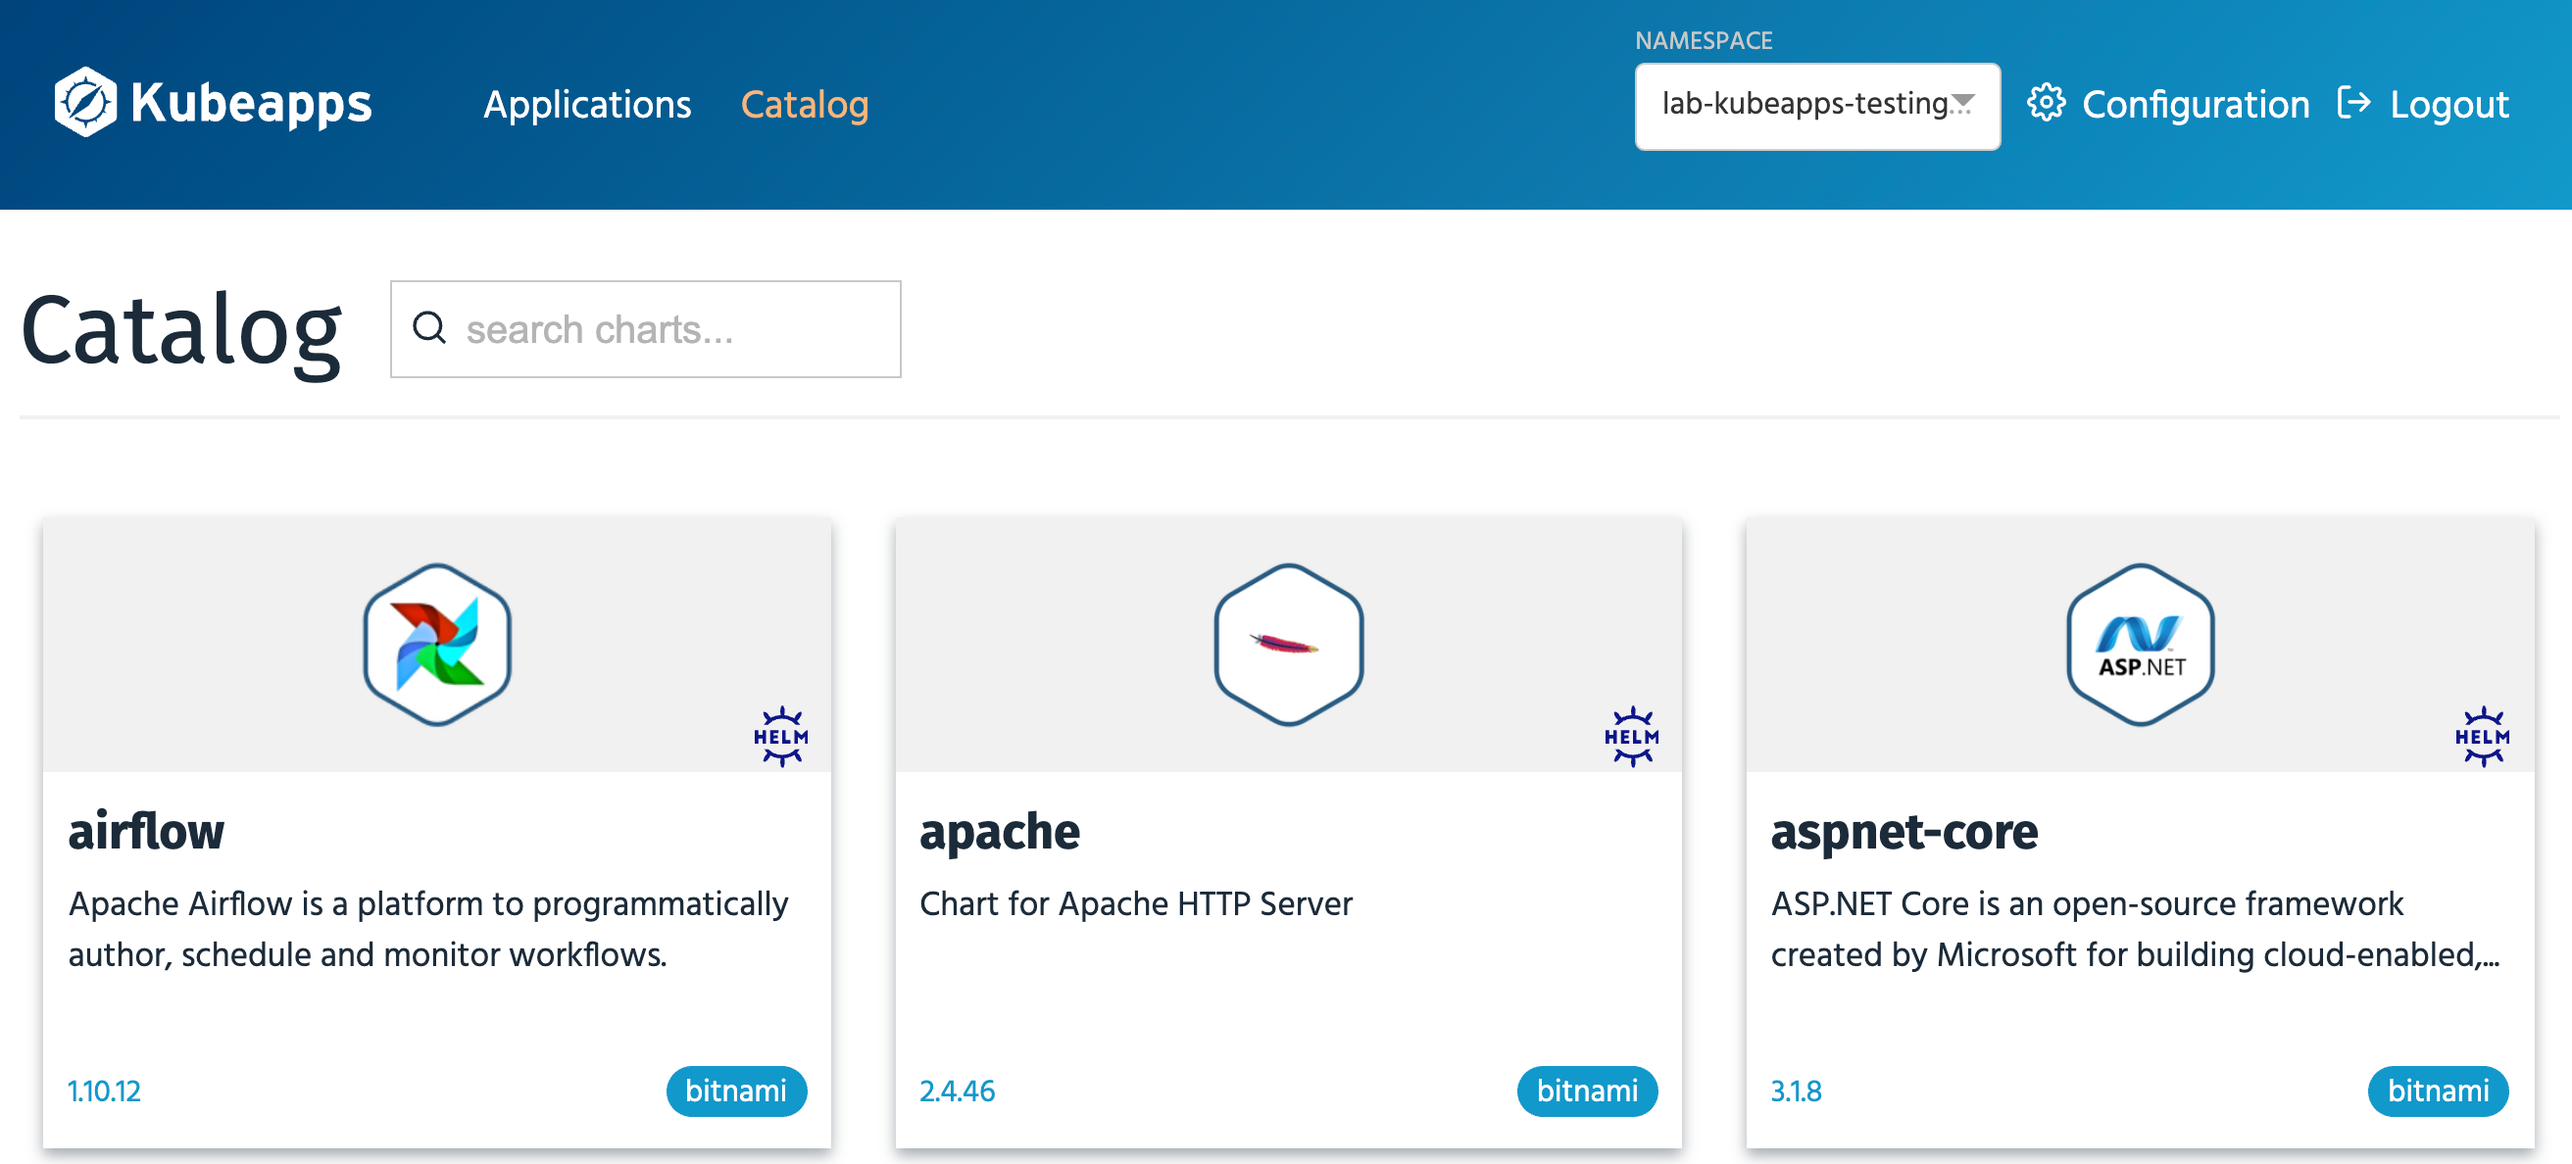
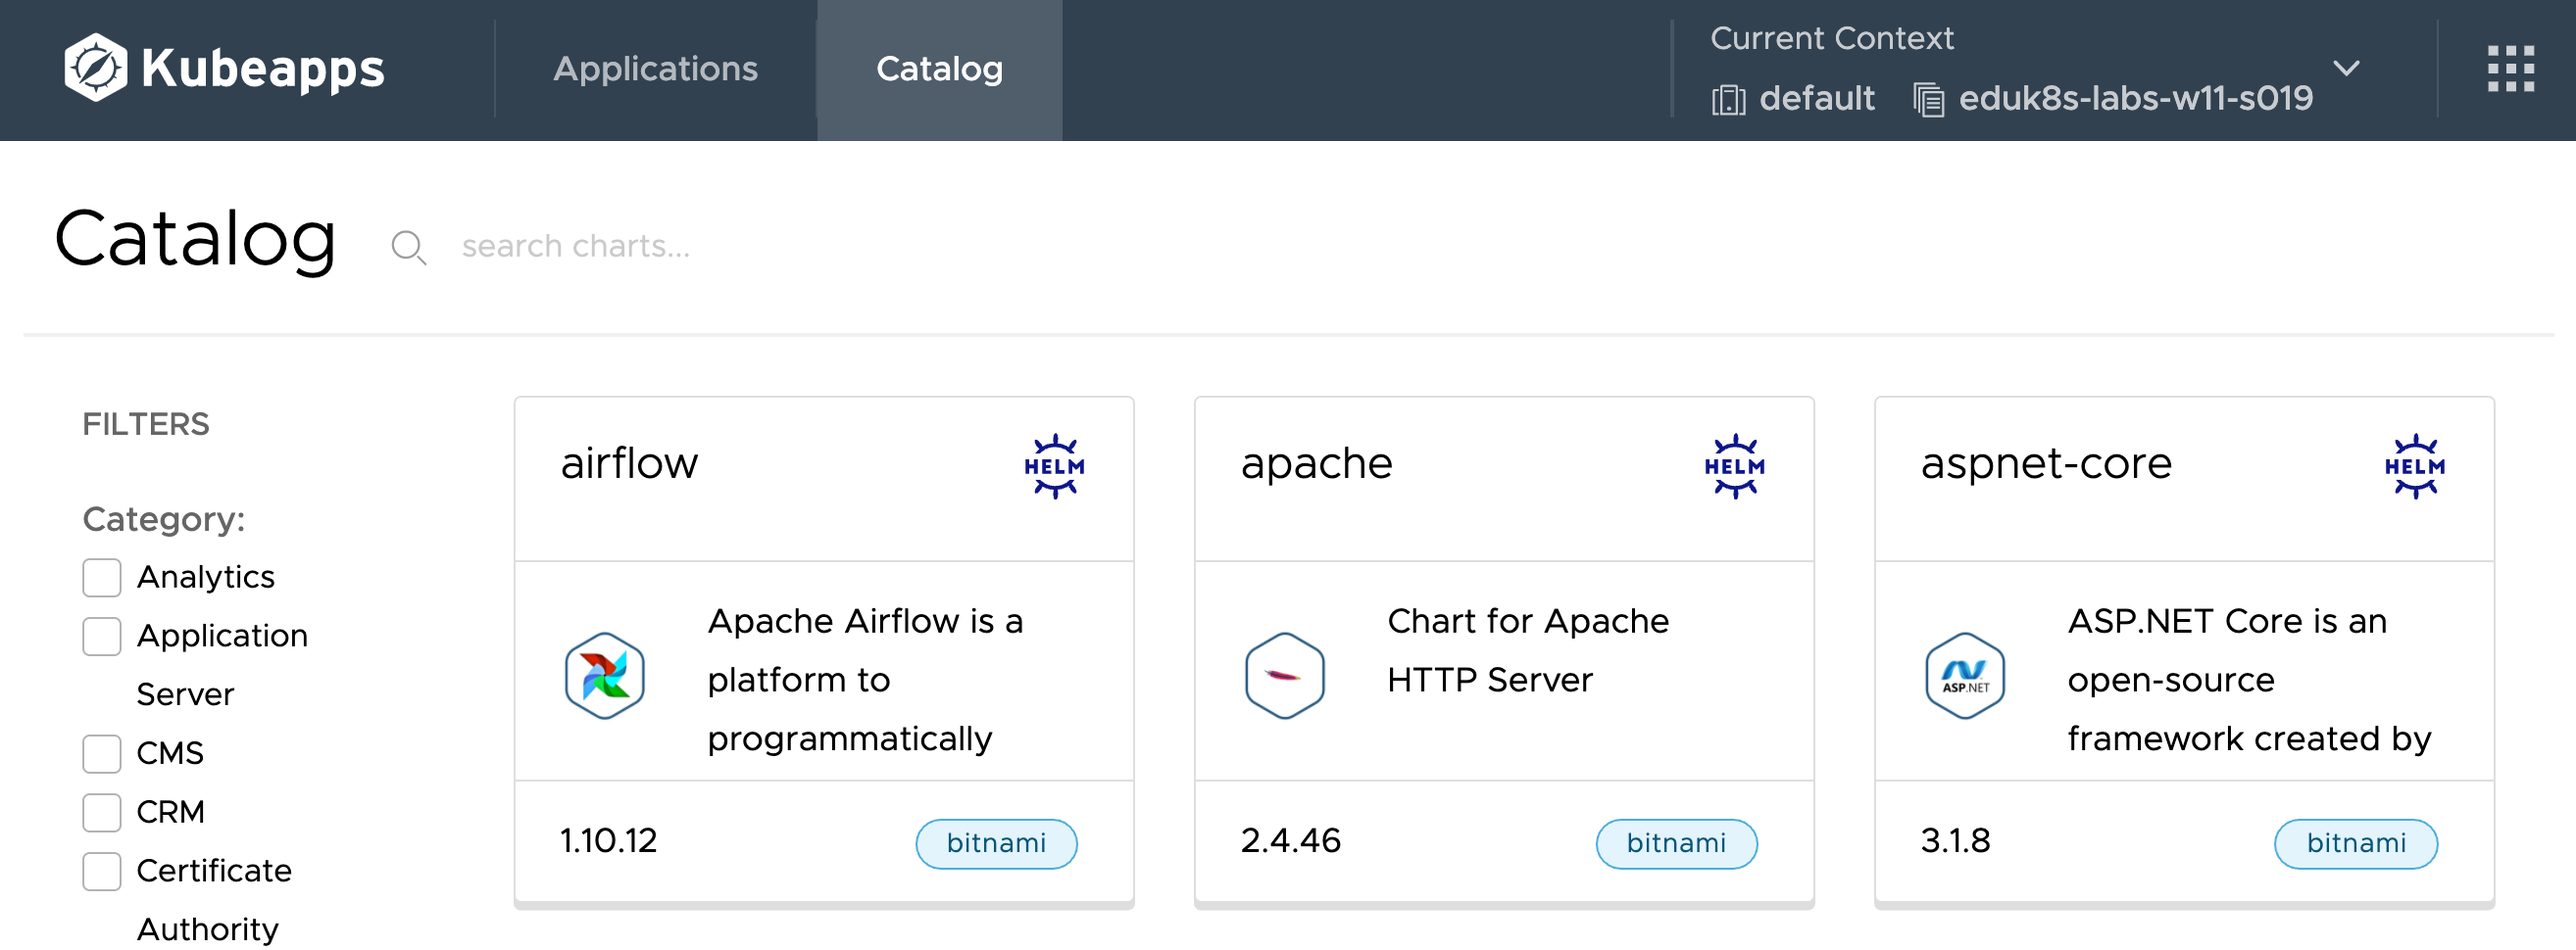
Start conversion of images to new web interface style.

diff --git a/workshop/content/exercises/03-adding-new-repositories.md b/workshop/content/exercises/03-adding-new-repositories.md
@@ -1,6 +1,6 @@
 Even when a global default application repository has been configured, provided the user or service account used to access Kubeapps has the appropriate level of access, additional application repositories can be added for use within specific namespaces.
 
-If this capability is available, you can add a new application repository by selecting the **Configuration->App Repositories** drop down menu item.
+If this capability is available, you can add a new application repository by selecting the **App Repositories** item under the drop down menu grid top right.
 
 ```dashboard:reload-dashboard
 name: Kubeapps
@@ -12,10 +12,6 @@ You should be presented with the page:
 ![](kubeapps-add-repositories.png)
 
 It will be empty at this point as no additional respositories have yet been added to the selected namespace.
-
-Although the page describes being able to view application repositories across all namespaces, this will not work in this workshop environment as the user you are accessing Kubeapps as does not have the appropriate rights to search other namespaces.
-
-The restriction here is because the ability to add or list applications repositories makes use of Kubernetes custom resources. As such, what you can do is controlled through RBAC (role based access control). In this workshop environment you only have the ability to create, list and delete the custom resource definition describing an application repository in the namespace used for the workshop.
 
 To add a new application repository, click on the **Add App Repository** button. This will yield the popup:
 

diff --git a/workshop/content/setup-environment.md b/workshop/content/setup-environment.md
@@ -1,4 +1,4 @@
-This workshop environment relies on Kubeapps having already been separately installed into the Kubernetes cluster. It relies on Kubeapps having been installed into the `kubeapps` namespace.
+This workshop environment relies on Kubeapps having already been separately installed into the Kubernetes cluster. It relies on Kubeapps having been installed into the `kubeapps` namespace. It is expected that the Kubeapps deployment has the new style web interface enabled.
 
 To test that Kubeapps is installed and available, click on the **Kubeapps** dashboard tab.
 
